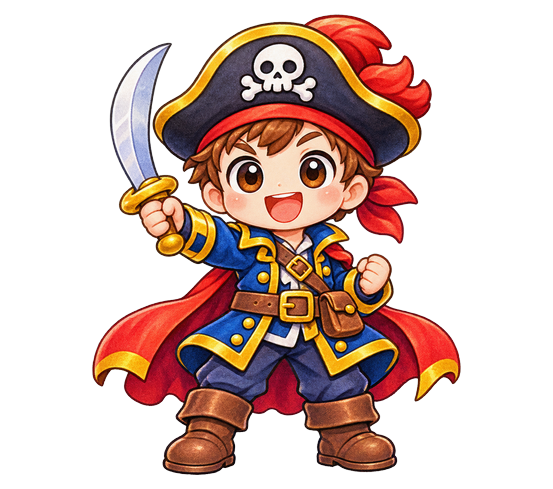
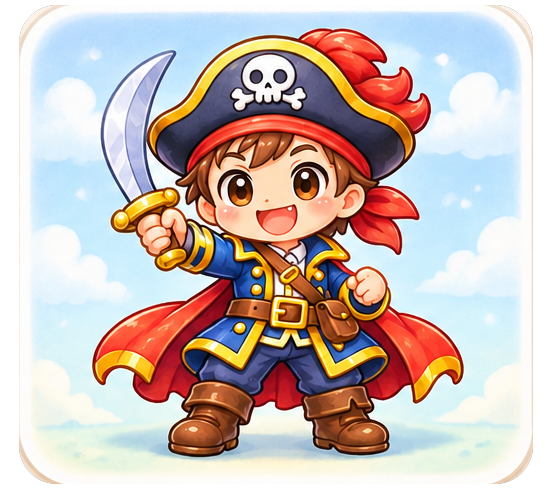
トップページの4キャラの絵を、MAさんのカードの絵に
Claude-Session: https://claude.ai/code/session_01UiPSEer8fJK53joirGFQvZ

diff --git a/learn.html b/learn.html
@@ -399,7 +399,7 @@ function home(){
       ks.map(k=>`<button class="tile ${L[k]?"done":""} ${k===nk?"next":""}" data-k="${k}" aria-label="${k}${L[k]?"（おぼえた）":""}">${k}${star(k)}</button>`).join("")+`</div></section>`;
   }
   app.innerHTML=`<div class="top"><a class="pill" href="./">‹ キャラをえらぶ</a><span class="spacer"></span><button class="pill" id="boxBtn">${CHAR.boxE} ${CHAR.box}（${ownedCount()+Object.keys(SP).length}）</button></div>
-  <div class="hero"><img src="chara-${CH}.png?v=6" alt=""><div><h1>${CHAR.name} ${GRADE}年生<br>おぼえる</h1><p>おぼえた かんじ <b>${n}</b> / ${KS.length}${nk?`・いまは「${placeName(chapOf(nk))}」`:""}</p><div class="bar"><i style="width:${n/KS.length*100}%"></i></div></div></div>
+  <div class="hero"><img src="chara-${CH}.png?v=7" alt=""><div><h1>${CHAR.name} ${GRADE}年生<br>おぼえる</h1><p>おぼえた かんじ <b>${n}</b> / ${KS.length}${nk?`・いまは「${placeName(chapOf(nk))}」`:""}</p><div class="bar"><i style="width:${n/KS.length*100}%"></i></div></div></div>
   <div class="modes"><button class="on" aria-current="page">📖 おぼえる</button><a href="${CH}-${KYU}.html">✏ クイズ</a></div>
   <div class="gift-meter"><span>${CHAR.boxE}</span><span>あと <b>${PER_ITEM-(n%PER_ITEM)}</b>字 れんしゅうすると アイテム！</span>${(()=>{const m=n%PER_ITEM;return `<div class="pips">${Array.from({length:PER_ITEM},(_,i)=>`<i class="${i<m?"on":""}"></i>`).join("")}</div>`;})()}</div>
   ${nk?`<button class="btn pri" id="goNext" style="padding:14px;font-size:1.1rem">つぎの かんじ「${nk}」を おぼえる ›</button>`:`<p class="msg ok">ぜんぶ おぼえたね！ クイズに ちょうせんしよう！</p>`}
@@ -416,7 +416,7 @@ function box(){
   const all=CHAR.items;
   const spList=Object.entries(SP);
   app.innerHTML=`<div class="top"><button class="pill" id="back">‹ もどる</button></div>
-  <div class="hero"><img src="chara-${CH}.png?v=6" alt=""><div><h1>${CHAR.boxE} ${CHAR.box}</h1><p>かんじを 5つ しっかり れんしゅうすると アイテムが 1つ。ひとつの ばしょの かんじを ぜんぶ おぼえると とくべつアイテム！</p></div></div>
+  <div class="hero"><img src="chara-${CH}.png?v=7" alt=""><div><h1>${CHAR.boxE} ${CHAR.box}</h1><p>かんじを 5つ しっかり れんしゅうすると アイテムが 1つ。ひとつの ばしょの かんじを ぜんぶ おぼえると とくべつアイテム！</p></div></div>
   <section class="card"><h3>とくべつアイテム（${spList.length}）</h3><div class="shelf">${CHAR.special.map((x,i)=>{ const has=spList.some(([id,j])=>j===i); return has?`<div class="it sp">${x[0]}<small>${x[1]}</small></div>`:`<div class="it no">？</div>`; }).join("")}</div></section>
   <section class="card"><h3>アイテム（${Object.keys(IT).length} / ${all.length}しゅるい）</h3><div class="shelf">${all.map((x,i)=>IT[i]?`<div class="it">${IT[i]>1?`<span class="n">×${IT[i]}</span>`:""}${x[0]}<small>${x[1]}</small></div>`:`<div class="it no">？</div>`).join("")}</div></section>`;
   $("#back").onclick=home; scrollTo(0,0);
@@ -446,7 +446,7 @@ function lesson(k){
     scrollTo(0,0);
   }
   const unlock=()=>{ done[step]=true; $("#next").disabled=false; };
-  const talk=t=>`<div class="talk"><img src="chara-${CH}.png?v=6" alt=""><p>${t}</p></div>`;
+  const talk=t=>`<div class="talk"><img src="chara-${CH}.png?v=7" alt=""><p>${t}</p></div>`;
   const pips=(n,need)=>`<div class="pips" aria-label="${n}/${need}">${Array.from({length:need},(_,i)=>`<i class="${i<n?"on":""}"></i>`).join("")}</div>`;
   const msgFn=(t,c)=>{ const m=$("#msg"); if(m){ m.textContent=t; m.className="msg "+c; } };
   function show(){

diff --git a/sw.js b/sw.js
@@ -1,6 +1,6 @@
 // かんじフレンズ：オフラインでも遊べるようにするしくみ
 // ゲームを直したら VERSION を上げると、つぎに開いたとき新しい版に入れかわります
-const VERSION = "nakama-v70";
+const VERSION = "nakama-v71";
 const CORE = ["./", "./index.html", "./manifest.webmanifest", "./icon-192.png", "./icon-512.png", "./icon-maskable-512.png", "./apple-touch-icon.png", "./chara-pirate.png", "./chara-dragon.png", "./chara-hamster.png", "./chara-unicorn.png", "./pirate-10.html", "./pirate-9.html", "./pirate-8.html", "./pirate-7.html", "./pirate-6.html", "./pirate-5.html", "./dragon-10.html", "./dragon-9.html", "./dragon-8.html", "./dragon-7.html", "./dragon-6.html", "./dragon-5.html", "./hamster-10.html", "./hamster-9.html", "./hamster-8.html", "./hamster-7.html", "./hamster-6.html", "./hamster-5.html", "./unicorn-10.html", "./unicorn-9.html", "./unicorn-8.html", "./unicorn-7.html", "./unicorn-6.html", "./unicorn-5.html", "./learn.html", "./pay.js?v=1", "./evo/dragon-0.webp", "./evo/dragon-1.webp", "./evo/dragon-10.webp", "./evo/dragon-11.webp", "./evo/dragon-12.webp", "./evo/dragon-13.webp", "./evo/dragon-14.webp", "./evo/dragon-2.webp", "./evo/dragon-3.webp", "./evo/dragon-4.webp", "./evo/dragon-5.webp", "./evo/dragon-6.webp", "./evo/dragon-7.webp", "./evo/dragon-8.webp", "./evo/dragon-9.webp", "./evo/hamster-0.webp", "./evo/hamster-1.webp", "./evo/hamster-10.webp", "./evo/hamster-11.webp", "./evo/hamster-12.webp", "./evo/hamster-13.webp", "./evo/hamster-14.webp", "./evo/hamster-2.webp", "./evo/hamster-3.webp", "./evo/hamster-4.webp", "./evo/hamster-5.webp", "./evo/hamster-6.webp", "./evo/hamster-7.webp", "./evo/hamster-8.webp", "./evo/hamster-9.webp", "./evo/pirate-0.png", "./evo/pirate-0.webp", "./evo/pirate-1.webp", "./evo/pirate-10.webp", "./evo/pirate-11.webp", "./evo/pirate-12.webp", "./evo/pirate-13.webp", "./evo/pirate-14.webp", "./evo/pirate-2.webp", "./evo/pirate-3.webp", "./evo/pirate-4.webp", "./evo/pirate-5.webp", "./evo/pirate-6.webp", "./evo/pirate-7.webp", "./evo/pirate-8.webp", "./evo/pirate-9.webp", "./evo/unicorn-0.webp", "./evo/unicorn-1.webp", "./evo/unicorn-10.webp", "./evo/unicorn-11.webp", "./evo/unicorn-12.webp", "./evo/unicorn-13.webp", "./evo/unicorn-14.webp", "./evo/unicorn-2.webp", "./evo/unicorn-3.webp", "./evo/unicorn-4.webp", "./evo/unicorn-5.webp", "./evo/unicorn-6.webp", "./evo/unicorn-7.webp", "./evo/unicorn-8.webp", "./evo/unicorn-9.webp", "./cut/dragon-0.webp", "./cut/dragon-1.webp", "./cut/hamster-0.webp", "./cut/hamster-1.webp", "./cut/pirate-0.webp", "./cut/pirate-1.webp", "./cut/unicorn-0.webp", "./cut/unicorn-1.webp", "./play/card-igloo.webp", "./play/card-q.webp", "./play/fish0.webp", "./play/fish1.webp", "./play/fish2.webp", "./play/fish4.webp", "./play/fish5.webp", "./play/igloo.webp", "./play/nightsky.webp", "./play/star.webp", "./play/target.webp", "./play/tr-dug.webp", "./play/tr-gold.webp", "./play/tr-hot.webp", "./play/tr-sand.webp", "./learn-1.js?v=1", "./learn-2.js?v=1", "./learn-3.js?v=1", "./learn-4.js?v=1", "./learn-5.js?v=1", "./learn-6.js?v=1"];
 
 self.addEventListener("install", e => {

diff --git a/index.html b/index.html
@@ -159,7 +159,7 @@ function info(c,k){
 function render(open){
   $("grid").after($("panel"));
   $("grid").innerHTML = CHARS.map(c=>`<button type="button" class="chara ${c.id}" data-id="${c.id}" aria-expanded="${open===c.id}">
-      <img src="chara-${c.id}.png?v=6" alt="" width="366" height="322"><b>${c.name}</b><small>${GR[c.kyus[0]]}〜${GR[c.kyus[c.kyus.length-1]]}年生</small></button>`).join("");
+      <img src="chara-${c.id}.png?v=7" alt="" width="366" height="322"><b>${c.name}</b><small>${GR[c.kyus[0]]}〜${GR[c.kyus[c.kyus.length-1]]}年生</small></button>`).join("");
   $("grid").querySelectorAll(".chara").forEach(b=>b.addEventListener("click",()=>{ const id=b.dataset.id; render(open===id?null:id); if(open!==id) $("panel").scrollIntoView({behavior:"smooth",block:"nearest"}); }));
   const c=CHARS.find(x=>x.id===open);
   $("panel").hidden=!c;
@@ -180,10 +180,10 @@ const L=last(), lm=L&&L.match(/^learn:(pirate|dragon|hamster|unicorn)-([1-6])$/)
 const m=L&&L.match(/^(pirate|dragon|hamster|unicorn)-(10|9|8|7|6|5)$/), lc=m&&CHARS.find(c=>c.id===m[1]&&c.kyus.includes(m[2]));
 if(lm){ const c=CHARS.find(x=>x.id===lm[1]), k={"1":"10","2":"9","3":"8","4":"7","5":"6","6":"5"}[lm[2]];
   $("cont").hidden=false; $("cont").href=`learn.html?c=${c.id}&g=${lm[2]}`; $("cont").className="cont "+c.id;
-  $("cont").innerHTML=`<img src="chara-${c.id}.png?v=6" alt="" width="84" height="68"><div><b>つづきから：${c.name} ${lm[2]}年生</b><span>📖 おぼえる（${learnInfo(c,k)} / ${NK[k]}字）</span></div><i>›</i>`;
+  $("cont").innerHTML=`<img src="chara-${c.id}.png?v=7" alt="" width="84" height="68"><div><b>つづきから：${c.name} ${lm[2]}年生</b><span>📖 おぼえる（${learnInfo(c,k)} / ${NK[k]}字）</span></div><i>›</i>`;
 }else if(lc){
   $("cont").hidden=false; $("cont").href=L+".html"; $("cont").className="cont "+lc.id;
-  $("cont").innerHTML=`<img src="chara-${lc.id}.png?v=6" alt="" width="84" height="68"><div><b>つづきから：${lc.name} ${GR[m[2]]}年生</b><span>✏ クイズ・${info(lc,m[2]).replace(/<\/?b>/g,"")}</span></div><i>›</i>`;
+  $("cont").innerHTML=`<img src="chara-${lc.id}.png?v=7" alt="" width="84" height="68"><div><b>つづきから：${lc.name} ${GR[m[2]]}年生</b><span>✏ クイズ・${info(lc,m[2]).replace(/<\/?b>/g,"")}</span></div><i>›</i>`;
 }
 render(null);
 // 有料のしくみ（アプリのときだけ）：買う・購入を復元
